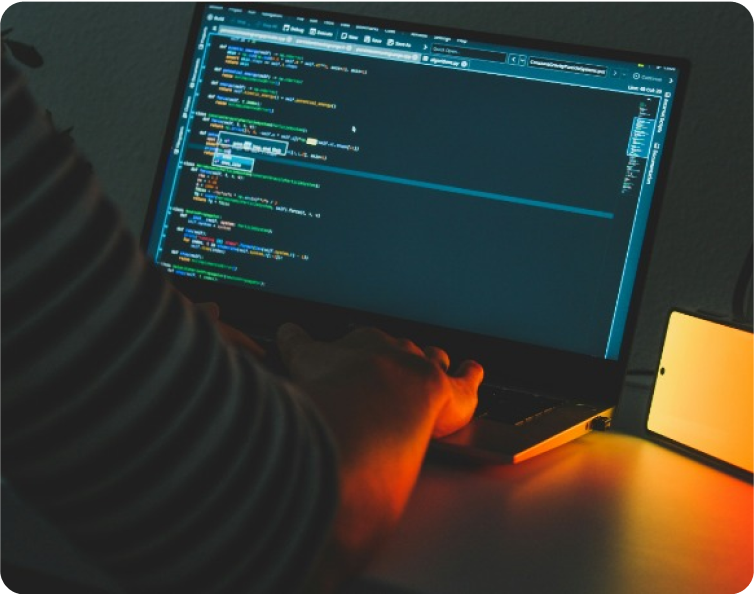
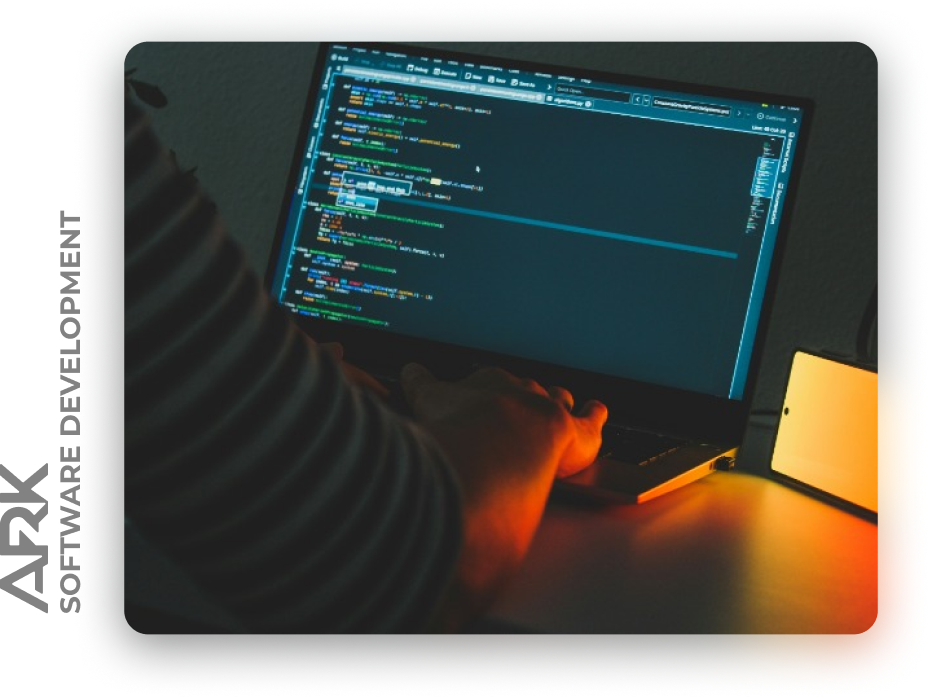
added animation on GlassBG

diff --git a/src/Components/GlassBG.jsx b/src/Components/GlassBG.jsx
@@ -1,18 +1,36 @@
-import SoftDev from "../assets/images/Software-Development.png";
+import { useTransition, animated } from "@react-spring/web";
+import React, { useState, useEffect } from "react";
+import SoftDevIMG from "../assets/images/Software-Development.png";
+import HardwareDevIMG from "../assets/images/Hardware-Development.jpg";
+
+const slides = [SoftDevIMG, HardwareDevIMG];
 const GlassBG = () => {
+  const [index, set] = useState(0);
+  const transitions = useTransition(index, {
+    key: index,
+    from: { opacity: 0 },
+    enter: { opacity: 1 },
+    leave: { opacity: 0 },
+    config: { duration: 3000 },
+    onRest: (_a, _b, item) => {
+      if (index === item) {
+        set((state) => (state + 1) % slides.length);
+      }
+    },
+    exitBeforeEnter: true,
+  });
   return (
-    <div className="relative h-[260px] w-[290px] rounded-3xl border-[0.5px] border-[#DCDCDC] bg-white shadow-2xl before:absolute before:left-1/2 before:top-1/2 before:z-[-2] before:min-h-[200px] before:min-w-[350px] before:-translate-x-1/2 before:-translate-y-1/2 before:transform before:rounded-3xl before:border-[0.5px] before:border-[#DCDCDC] before:bg-white/20 before:drop-shadow-sm before:backdrop-blur-lg before:content-[''] after:absolute after:left-1/2 after:top-1/2 after:z-[-1] after:min-h-[235px] after:min-w-[320px] after:-translate-x-1/2 after:-translate-y-1/2 after:transform after:rounded-3xl after:border-[0.5px] after:border-[#DCDCDC] after:drop-shadow-sm after:backdrop-blur-lg after:content-[''] sm:h-[360px] sm:w-[507px] before:sm:h-[262px] before:sm:w-[571px] after:sm:h-[314px] after:sm:w-[539px]">
-      <div className="flex h-full items-center justify-normal">
-        <div className="w-32 basis-1/4 -rotate-90">
-          <img className="object-contain" src="/a2klogo.svg" alt="A2K Logo" />
-          <p className="whitespace-nowrap text-sm font-bold">
-            Software Development
-          </p>
-        </div>
-        <div className="w-max">
-          <img src={SoftDev} alt="Software Development" />
-        </div>
-      </div>
+    <div className="relative mt-10 h-[260px] w-[290px] rounded-3xl border-[0.5px] border-[#DCDCDC] bg-white p-5 shadow-2xl before:absolute before:left-1/2 before:top-1/2 before:z-[-2] before:min-h-[200px] before:min-w-[350px] before:-translate-x-1/2 before:-translate-y-1/2 before:transform before:rounded-3xl before:border-[0.5px] before:border-[#DCDCDC] before:bg-white/20 before:drop-shadow-sm before:backdrop-blur-lg before:content-[''] after:absolute after:left-1/2 after:top-1/2 after:z-[-1] after:min-h-[235px] after:min-w-[320px] after:-translate-x-1/2 after:-translate-y-1/2 after:transform after:rounded-3xl after:border-[0.5px] after:border-[#DCDCDC] after:drop-shadow-sm after:backdrop-blur-sm after:content-[''] sm:h-[360px] sm:w-[507px] before:sm:h-[262px] before:sm:w-[571px] after:sm:h-[314px] after:sm:w-[539px]">
+      {transitions((style, i) => (
+        <animated.div
+          className="h-full bg-contain bg-center bg-no-repeat"
+          key={index}
+          style={{
+            ...style,
+            backgroundImage: `url(${slides[i]})`,
+          }}
+        />
+      ))}
     </div>
   );
 };
